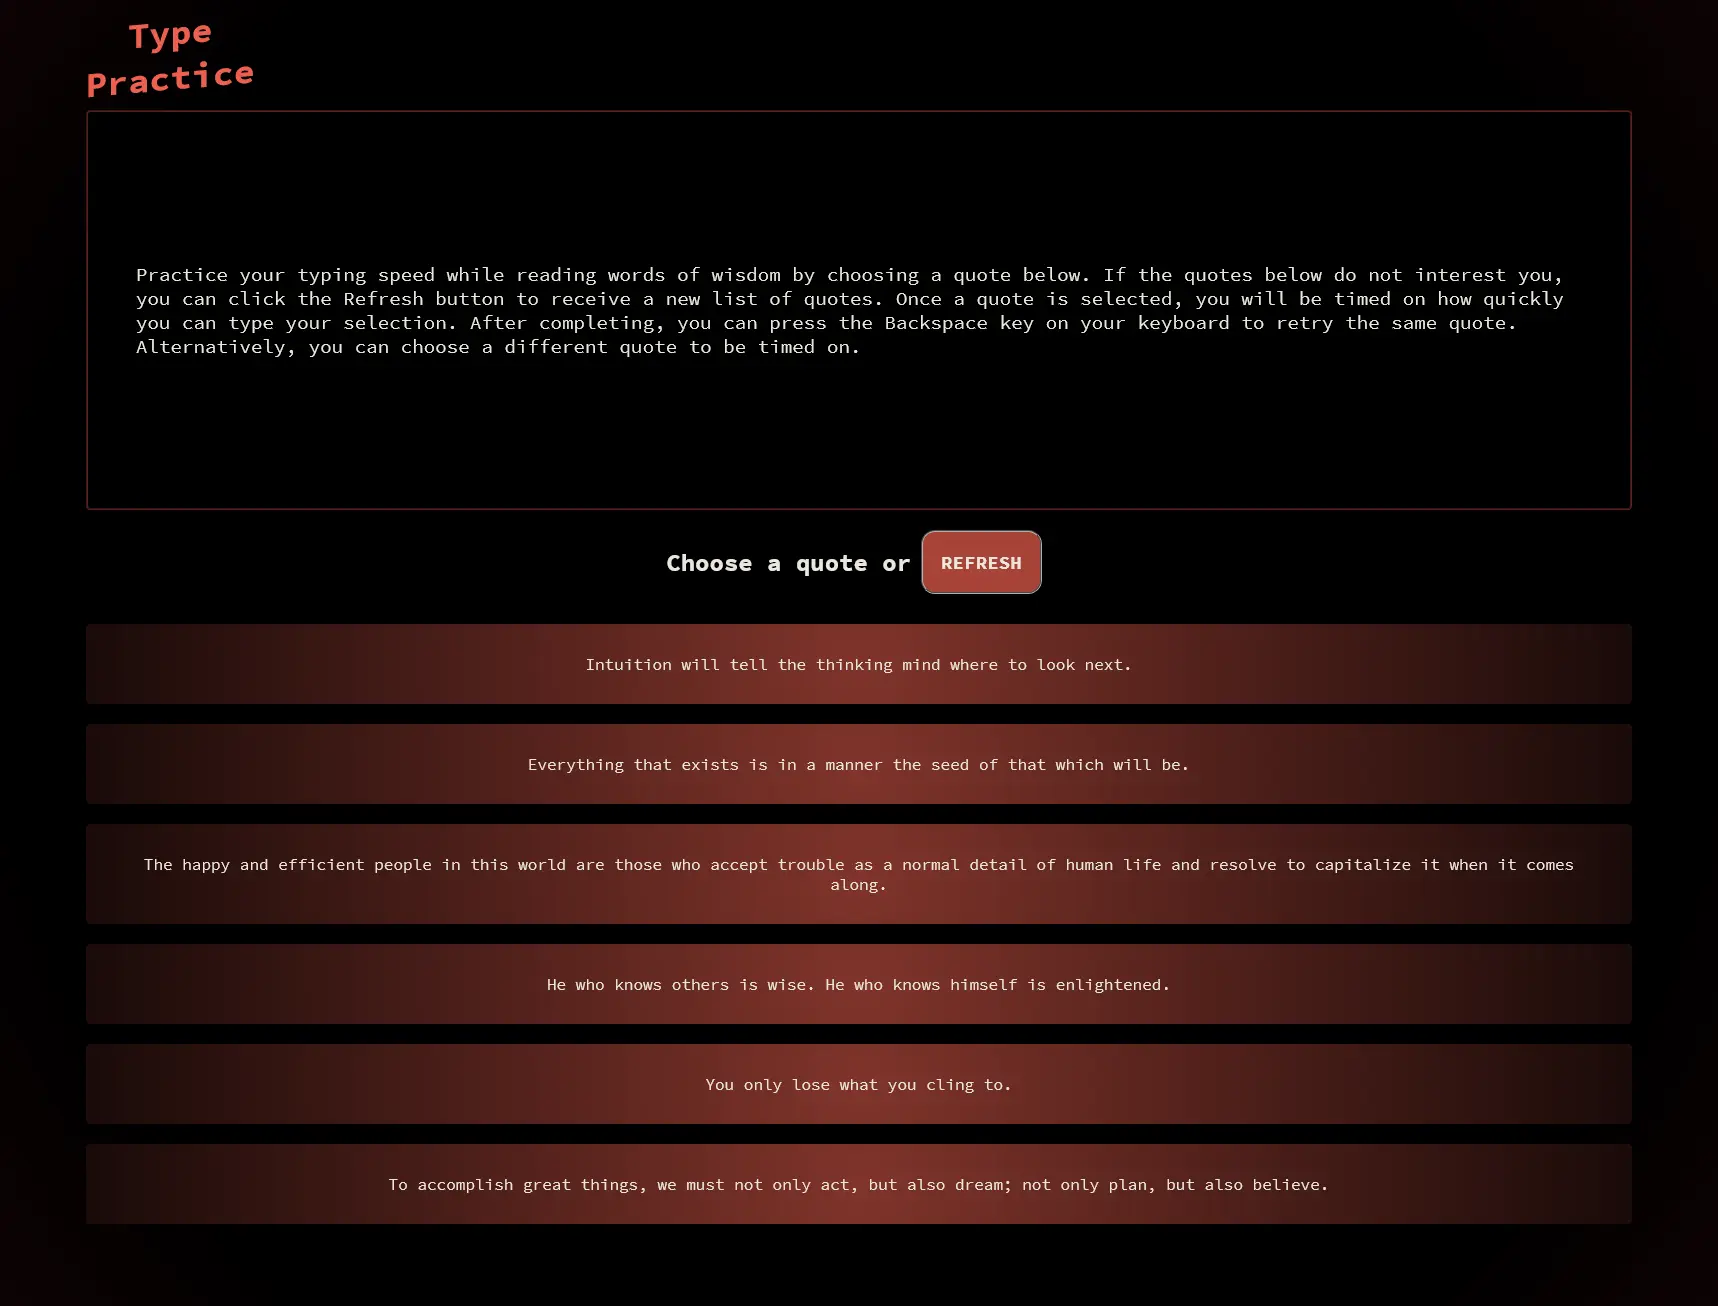
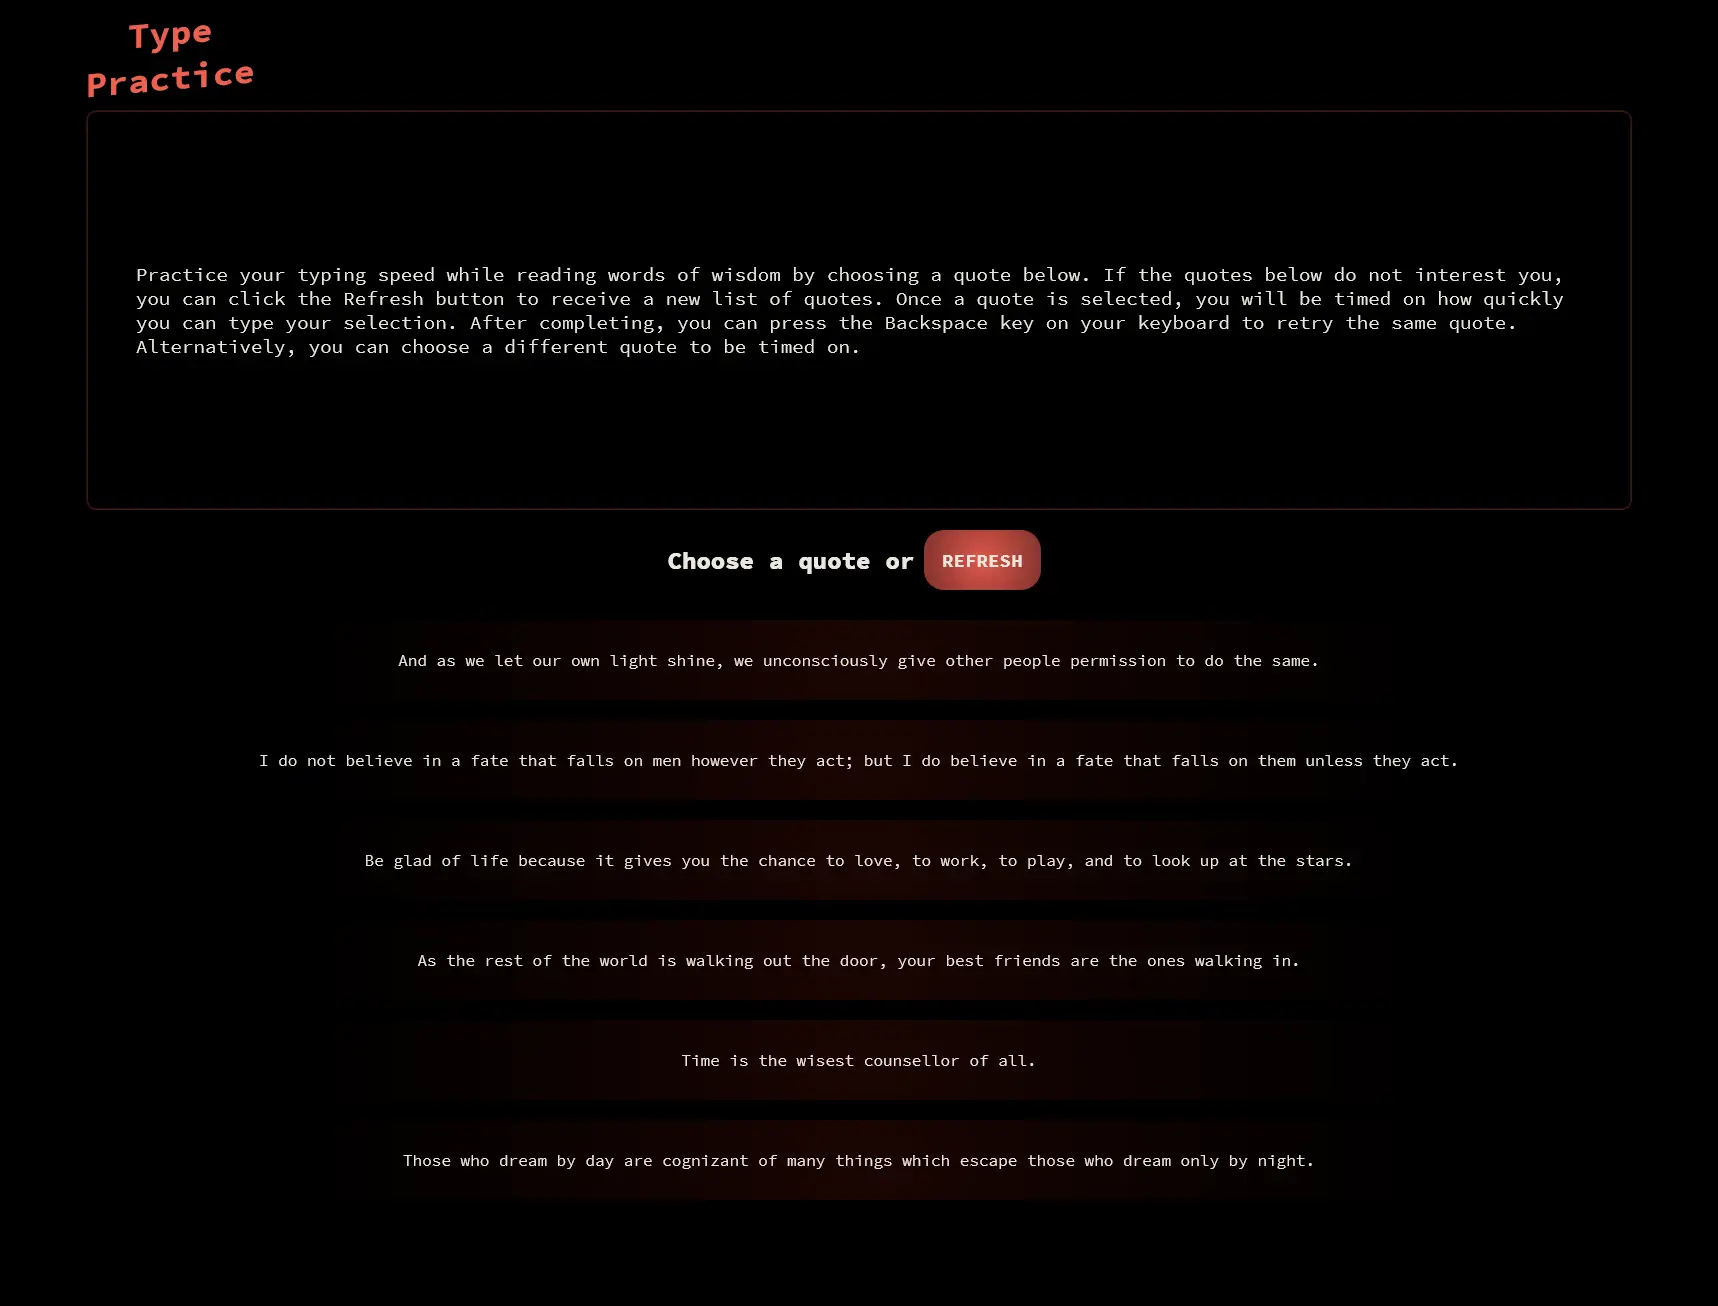
updated screenshots

diff --git a/README.md b/README.md
@@ -38,36 +38,24 @@ The application attempts to retrieve each quote dynamically via HTTP request(s).
 
 ### Desktop
 
-#### Initial view (Desktop)
+<img src="https://dj8eg5xs13hf6.cloudfront.net/type-practice/1.png" width="600">
 
-<img src="presentation/1.PNG" width="600">
+<img src="https://dj8eg5xs13hf6.cloudfront.net/type-practice/2.png" width="600">
 
-#### After starting game (Desktop)
+<img src="https://dj8eg5xs13hf6.cloudfront.net/type-practice/3.png" width="600">
 
-<img src="presentation/2.PNG" width="600">
-
-#### Progress in game (Desktop)
-
-<img src="presentation/3.PNG" width="600">
-
-#### After game completed (Desktop)
-
-<img src="presentation/4.PNG" width="600">
+<img src="https://dj8eg5xs13hf6.cloudfront.net/type-practice/4.png" width="600">
 
 ### Mobile
 
-#### Initial screen (Mobile)
+<img src="https://dj8eg5xs13hf6.cloudfront.net/type-practice/5.png" width="250">
 
-<img src="presentation/5.PNG" width="300">
+<img src="https://dj8eg5xs13hf6.cloudfront.net/type-practice/6.png" width="250">
 
-#### Initial screen 2 (Mobile)
+<img src="https://dj8eg5xs13hf6.cloudfront.net/type-practice/7.png" width="250">
 
-<img src="presentation/6.PNG" width="300">
+<img src="https://dj8eg5xs13hf6.cloudfront.net/type-practice/8.png" width="250">
 
-#### Progress in game (Mobile)
+<img src="https://dj8eg5xs13hf6.cloudfront.net/type-practice/9.png" width="250">
 
-<img src="presentation/7.PNG" width="300">
-
-#### Game completed (Mobile)
-
-<img src="presentation/8.PNG" width="300">
+<img src="https://dj8eg5xs13hf6.cloudfront.net/type-practice/10.png" width="250">
